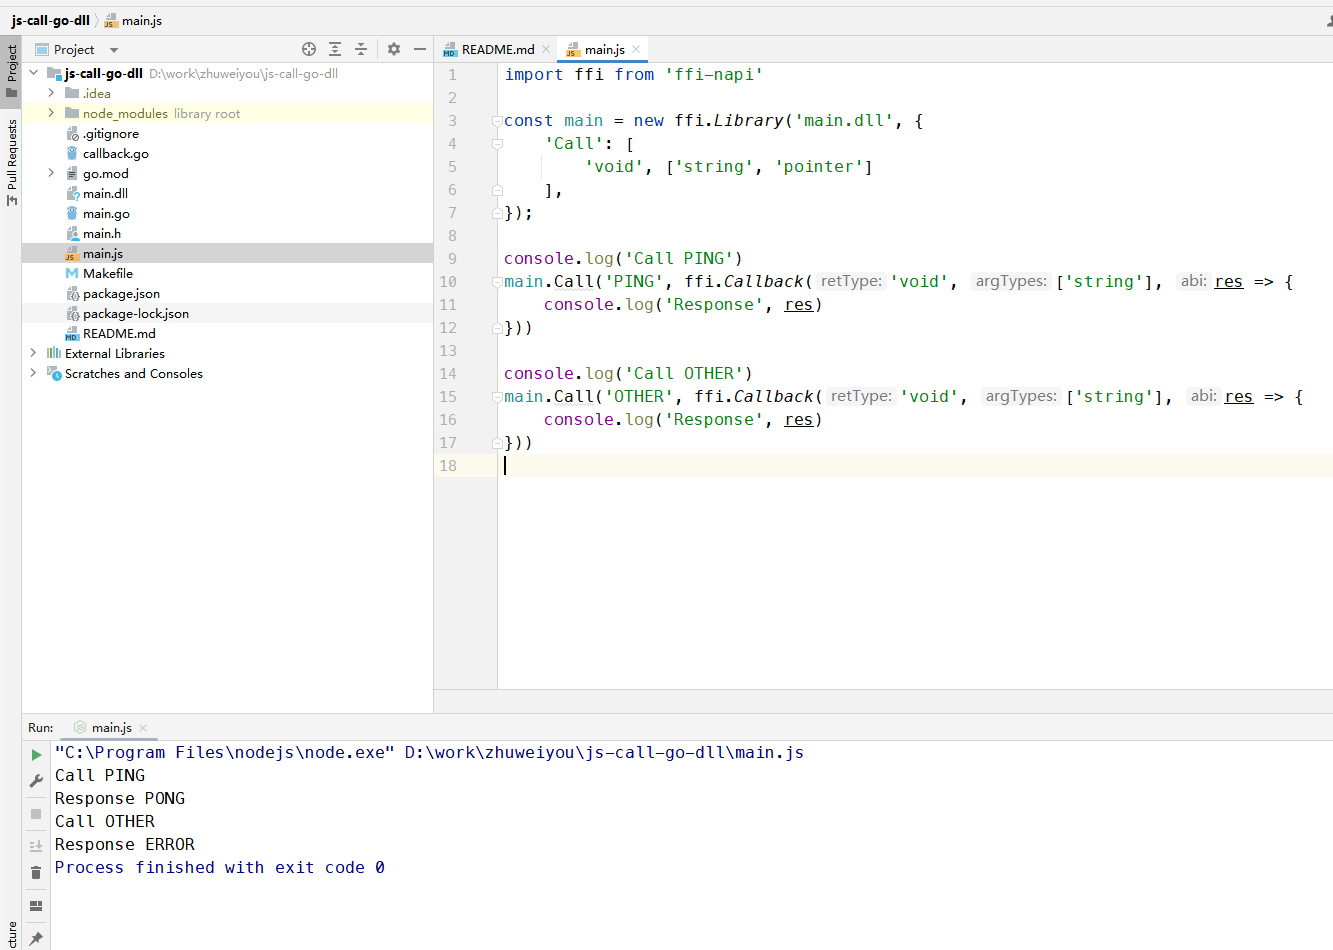
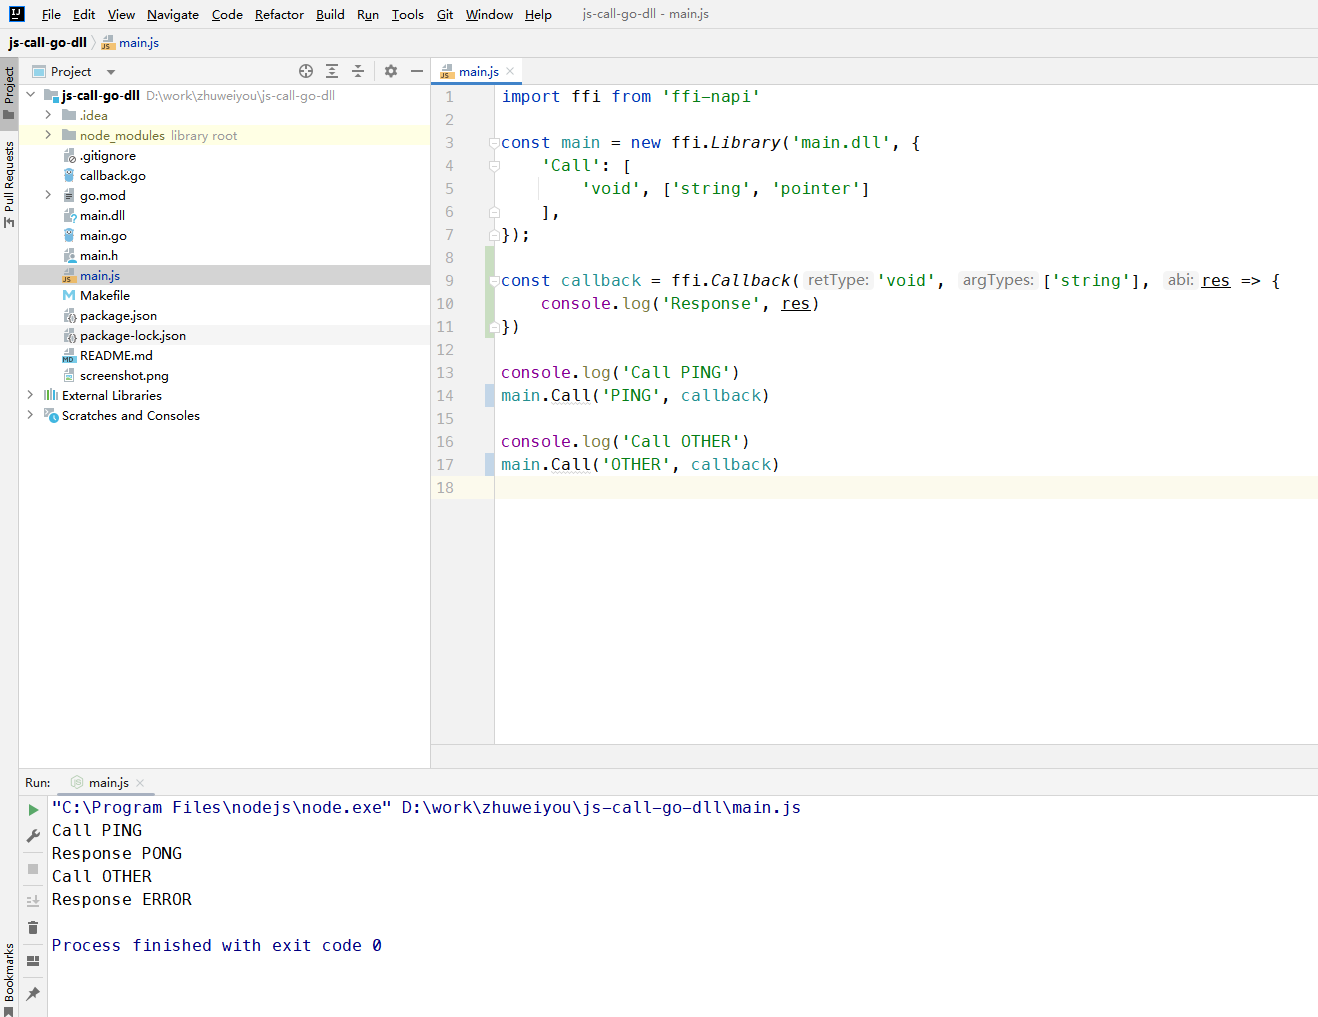
extract callback

diff --git a/main.js b/main.js
@@ -4,14 +4,14 @@ const main = new ffi.Library('main.dll', {
     'Call': [
         'void', ['string', 'pointer']
     ],
-});
+})
+
+const callback = ffi.Callback('void', ['string'], res => {
+    console.log('Response', res)
+})
 
 console.log('Call PING')
-main.Call('PING', ffi.Callback('void', ['string'], res => {
-    console.log('Response', res)
-}))
+main.Call('PING', callback)
 
 console.log('Call OTHER')
-main.Call('OTHER', ffi.Callback('void', ['string'], res => {
-    console.log('Response', res)
-}))
+main.Call('OTHER', callback)
